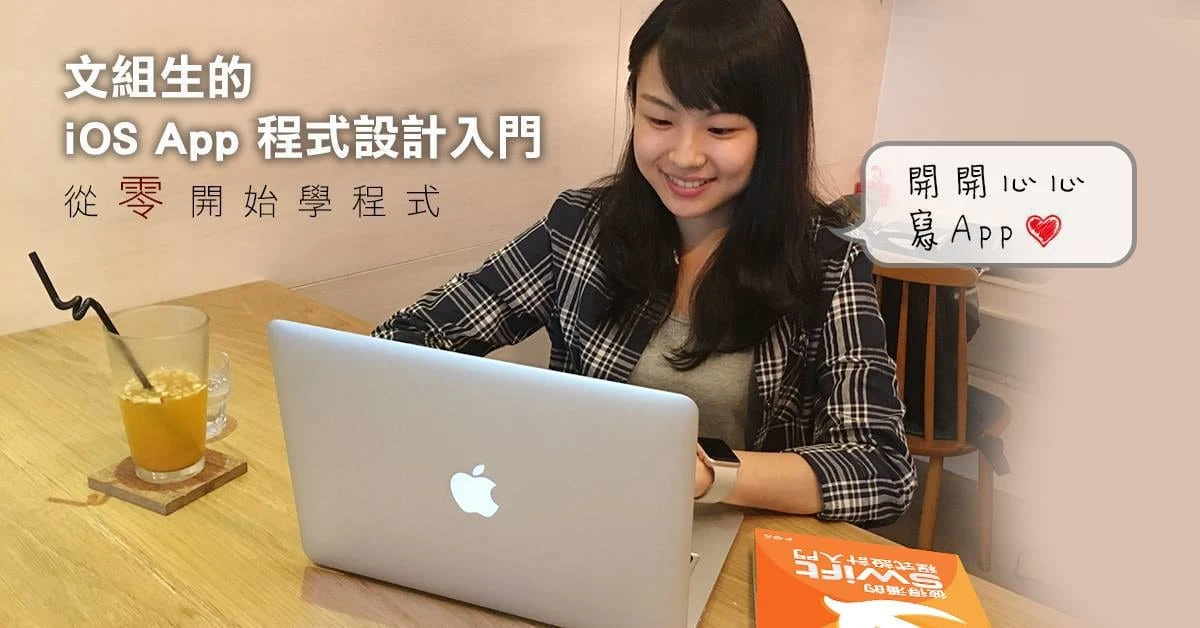
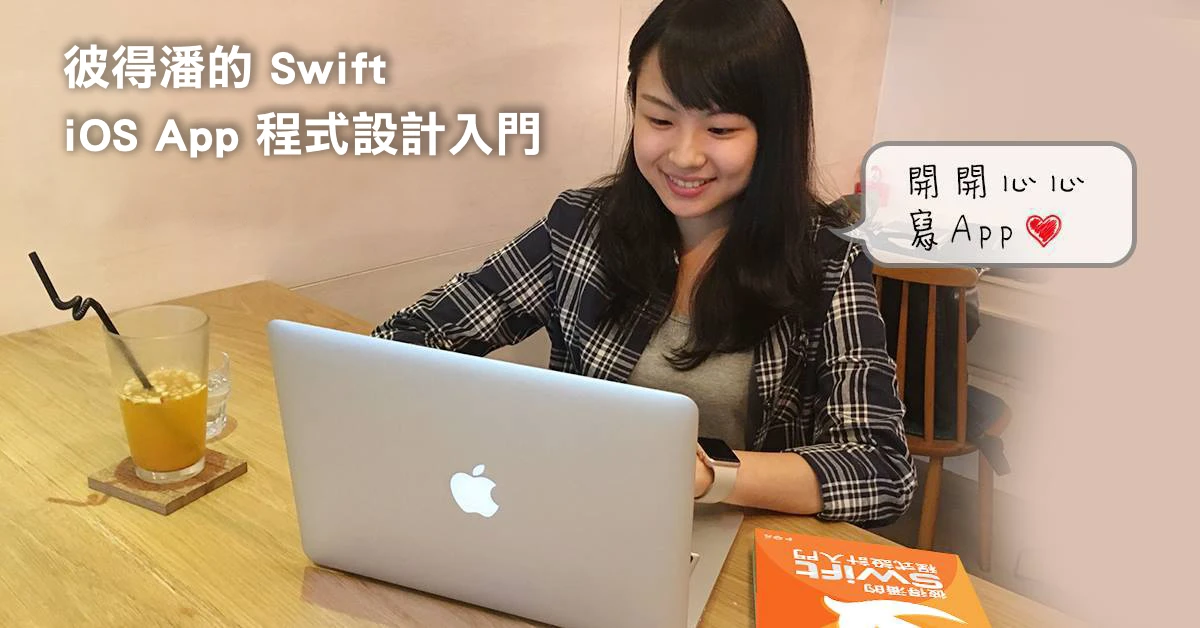
chore: adjust swift advanced intro hero layout and mobile background

Changed region(s): [[0.0308, 0.0605, 0.4625, 0.3631], [0.74, 0.9076, 0.7708, 0.9379]]

diff --git a/src/app/(swift)/courses/swift/advanced/intro/page.tsx b/src/app/(swift)/courses/swift/advanced/intro/page.tsx
@@ -1,5 +1,37 @@
-import { SectionPage } from '../_components/SectionPage'
+'use client'
+
+import Link from 'next/link'
+import { useTranslation } from 'react-i18next'
+import styles from '../page.module.css'
 
 export default function SwiftIntroPage() {
-  return <SectionPage sectionKey="intro" />
+  const { t } = useTranslation('swift')
+  const heroLines = t('introPage.heroLines', { returnObjects: true }) as string[]
+
+  return (
+    <main className={styles.page}>
+      <section
+        className={styles.introHero}
+        style={{ backgroundImage: 'url(/swift/advanced/intro-bg.jpg)' }}
+      >
+        <div className={styles.heroOverlay} />
+        <div className="container">
+          <div className={styles.heroContent}>
+            <p className={styles.kicker}>{t('hero.kicker')}</p>
+            <h1 className={styles.title}>{t('introPage.heroTitle')}</h1>
+            <ul className={styles.heroList}>
+              {heroLines.map((line, idx) => (
+                <li key={idx}>{line}</li>
+              ))}
+            </ul>
+            <div className={styles.heroActions}>
+              <Link href="/courses/swift/advanced/signup" className={styles.primary}>
+                {t('introPage.cta')}
+              </Link>
+            </div>
+          </div>
+        </div>
+      </section>
+    </main>
+  )
 }

diff --git a/src/app/(swift)/courses/swift/advanced/page.module.css b/src/app/(swift)/courses/swift/advanced/page.module.css
@@ -6,7 +6,7 @@
 .introHero {
   position: relative;
   padding: 3rem 0 2.75rem;
-  background: url('/swiftui/foundation/intro/hero.jpg') center/cover no-repeat;
+  background: url('/swift/advanced/intro-bg.jpg') center/cover no-repeat;
   color: #ffffff;
   overflow: hidden;
 }
@@ -14,16 +14,34 @@
 .heroOverlay {
   position: absolute;
   inset: 0;
-  background: none;
+  background: linear-gradient(0deg, rgba(0, 0, 0, 0.24), rgba(0, 0, 0, 0.5));
   pointer-events: none;
 }
 
 .heroContent {
   position: relative;
   z-index: 1;
-  max-width: 720px;
+  max-width: 520px;
   display: grid;
   gap: 0.75rem;
+  margin-left: auto;
+}
+
+.introHero .container {
+  display: flex;
+  justify-content: flex-end;
+  padding: 0 1.5rem 0 48%;
+}
+
+@media (max-width: 900px) {
+  .introHero .container {
+    justify-content: flex-start;
+    padding: 0 1.25rem;
+  }
+
+  .introHero {
+    background-position: 40% center;
+  }
 }
 
 .hero {
